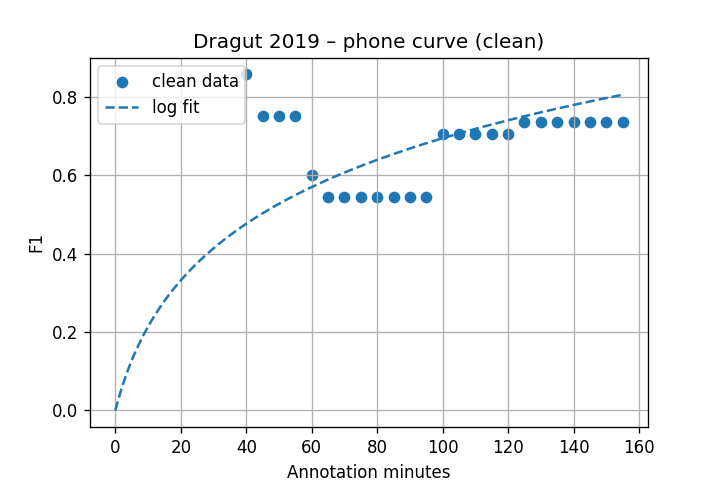
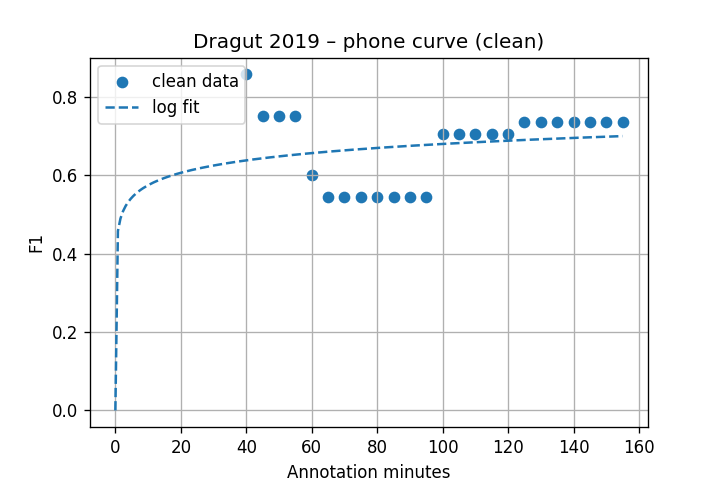
Re-run curve fitting after float-cast fix

diff --git a/src/curves.py b/src/curves.py
@@ -20,19 +20,12 @@ def log_model(x: np.ndarray, a: float, b: float) -> np.ndarray:
 from scipy.optimize import minimize, Bounds
 
 def fit_log_curve(x, y):
-    x = np.asarray(x, dtype=float)
-    y = np.asarray(y, dtype=float)
+    x, y = np.asarray(x, float), np.asarray(y, float)
 
-    # ---------- loss ----------
-    def loss(p):
-        a, b = p
-        return np.sum((log_model(x, a, b) - y) ** 2)
+    res = minimize(lambda p: np.sum((log_model(x, *p) - y)**2),
+                   x0=(1.0, 0.01), bounds=((0,None),(0,None)))
+    a, b = map(float, res.x)        # ← ensure native Python floats
 
-    # ---------- optimise ----------
-    a0 = y.max() * 1.05                 # initial a just above plateau
-    b0 = 5.0 / (x.mean() + 1)           # knee near mid-range
-    res = minimize(loss, x0=(a0, b0), bounds=((0, None), (1e-4, 1e3)))
+    rmse = float(np.sqrt(np.mean((log_model(x, a, b) - y)**2)))
+    return a, b, rmse
 
-    a_hat, b_hat = res.x
-    rmse = np.sqrt(loss((a_hat, b_hat)) / len(x))
-    return {"a": float(a_hat), "b": float(b_hat), "rmse": float(rmse)}

diff --git a/src/utils.py b/src/utils.py
@@ -5,20 +5,22 @@ Utility functions for cost-utility calculator
 
 from typing import List, Tuple
 
-def parse_curve(cell: str) -> List[Tuple[float, float]]:
+def parse_curve(cell: str) -> list[tuple[float, float]]:
     """
-    Convert a semicolon-separated string of 'x:y' pairs to a list of tuples.
-
-    Example
-    -------
-    '0:0.58;30:0.72' -> [(0, 0.58), (30, 0.72)]
+    '0:0.58;30:0.72'  →  [(0.0, 0.58), (30.0, 0.72)]
+    Ignores empty segments and strips whitespace.
     """
-    pts = []
+    pairs = []
     for pair in str(cell).split(";"):
-        if pair:
-            x_str, y_str = pair.split(":")
-            pts.append((float(x_str), float(y_str)))
-    return pts
+        if not pair.strip():
+            continue
+        x_str, y_str = pair.split(":")
+        try:
+            pairs.append((float(x_str.strip()), float(y_str.strip())))
+        except ValueError:
+            # Skip malformed points instead of returning strings
+            continue
+    return pairs
 
 
 def marginal_gain(x: List[float], y: List[float]) -> List[Tuple[float, float]]:
